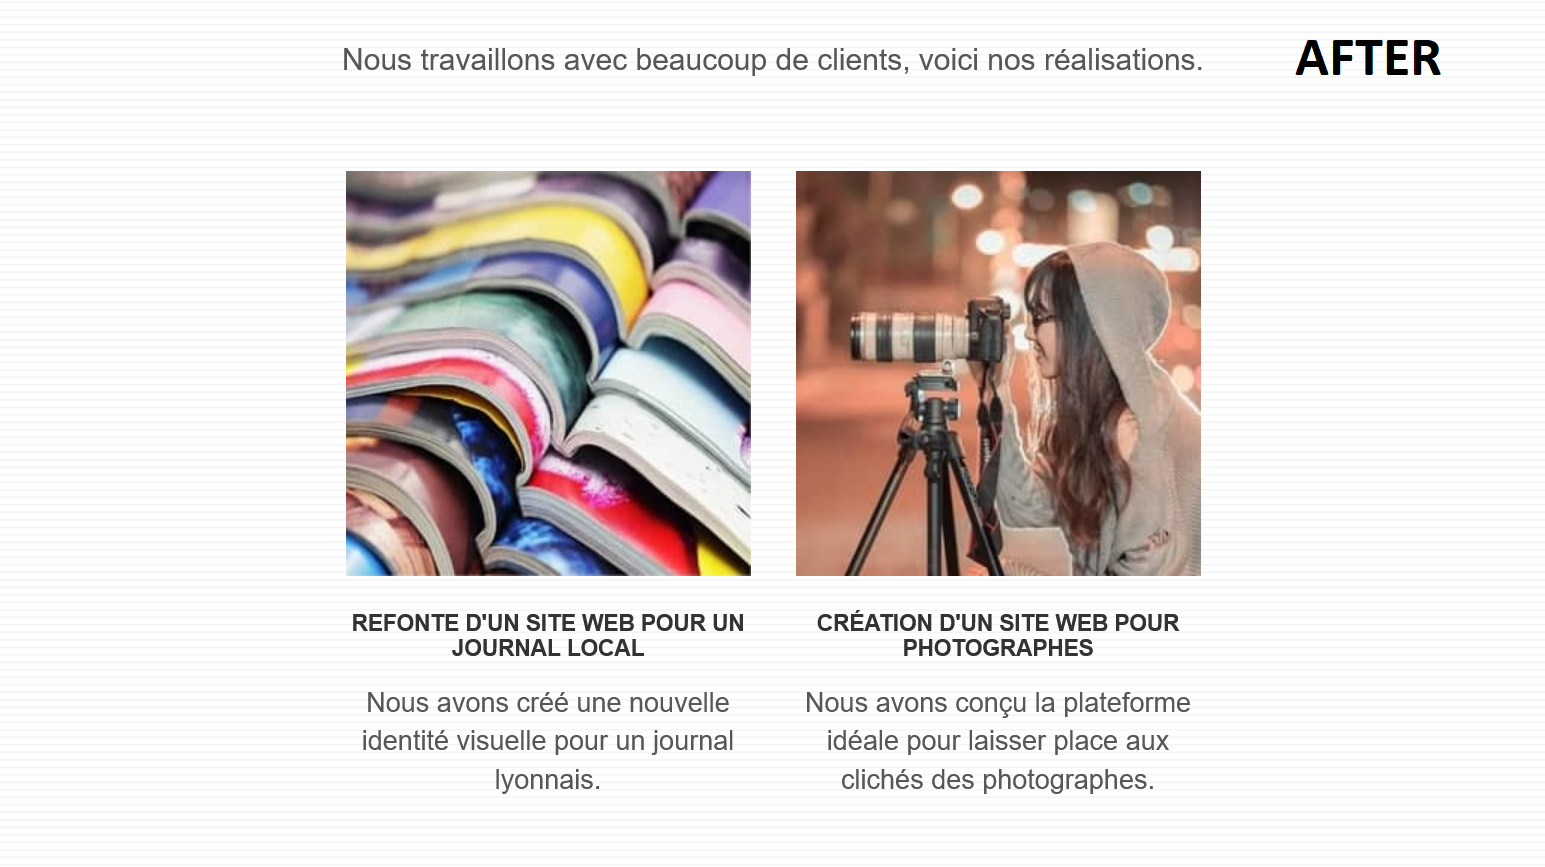
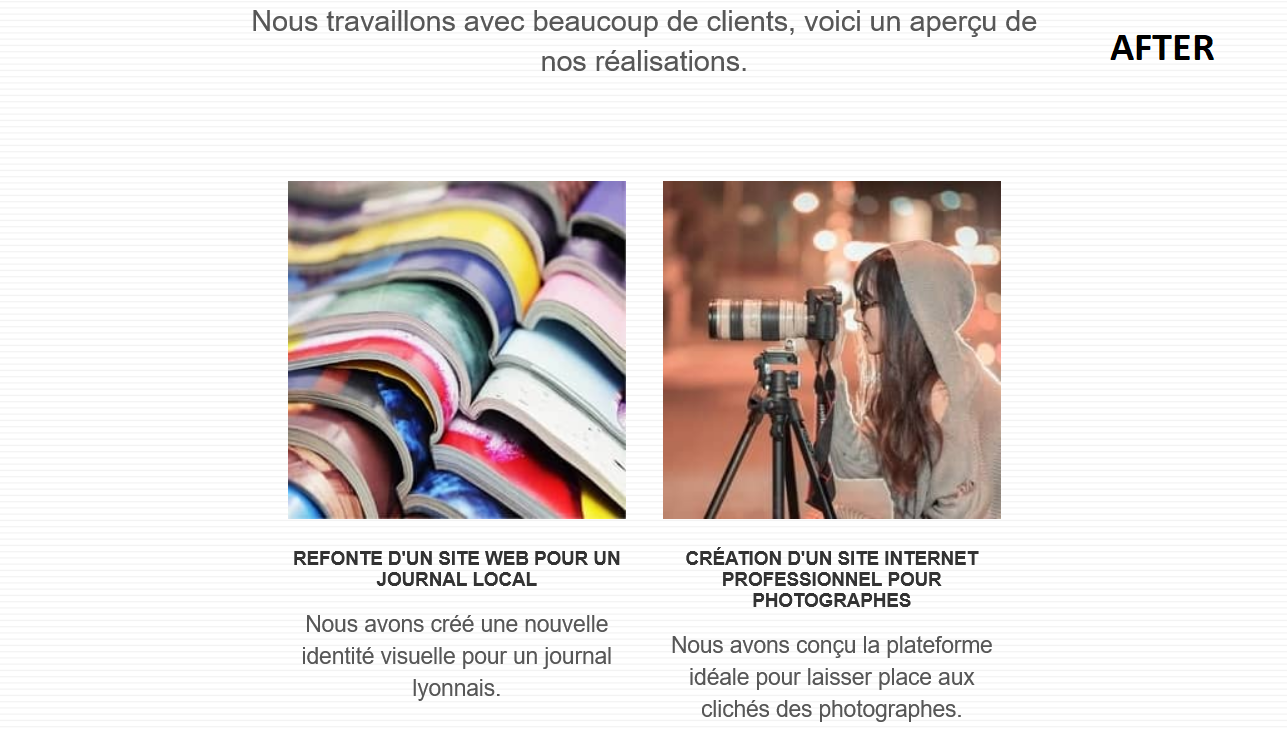
updated screenshot

Changed region(s): [[0.2176, 0.1811, 0.777, 0.9959], [0.1865, 0.0, 0.8081, 0.1207], [0.8392, 0.0302, 0.9635, 0.0905]]

diff --git a/index.html b/index.html
@@ -18,23 +18,23 @@
 }
 
 .img-size1{
-    height: 400px;
+    height: 450px;
     width: 990px;
 }
 
 .height1{
-    height: 400px;
+    height: 450px;
     width: 1000px;
 }
 
 .img-size2{
     height: 480px;
-    width: 990px;
+    width: 900px;
 }
 
 .height2{
     height: 480px;
-    width: 1000px;
+    width: 900px;
 }
 
 .img-size3{
@@ -58,11 +58,21 @@
 }
 
 .img-size5{
-  height: 400px;
+  height: 500px;
   width: 991px;
 }
 
 .height5{
+  height: 510px;
+  width: 1000px;
+}
+
+.img-size6{
+  height: 400px;
+  width: 991px;
+}
+
+.height6{
   height: 400px;
   width: 1000px;
 }
@@ -188,7 +198,8 @@ function initComparisons() {
   <a href="index.html">Page Accueil</a>
   <a href="contact.html">Page Contact</a>
     <div class="flex-center">
-      <h1>Comparaison des éléments</h1>
+      <h1>Comparaison du contraste des éléments</h1>
+      <p>Le contenu textuel de certains elements change dans la <a href="https://docstone.github.io/La-Chouette-Agence/">version finale</a></p>
       <p>Cliquez sur le slider et balayer l'image pour comparer</p>
       <h2>Navigation et Bannière</h2>
       <div class="img-comp-container height1 border">
@@ -234,23 +245,23 @@ function initComparisons() {
       
       <h2>Portfolio</h2>
       
-      <div class="img-comp-container height4 border">
+      <div class="img-comp-container height5 border">
         <div class="img-comp-img img-cont">
-      <img class="img-size4" src="./img/accueil_new_pic.png" width="1000" height="450">
+      <img class="img-size5" src="./img/accueil_new_pic.png" width="1000" height="450">
         </div>
         <div class="img-comp-img img-comp-overlay">
-      <img class="img-size4" src="./img/accueil_old_pic.png" width="1000" height="450">
+      <img class="img-size5" src="./img/accueil_old_pic.png" width="1000" height="450">
         </div>
       </div>
       
       <h2>Bannière contact et Footer</h2>
 
-      <div class="img-comp-container height5 border2">
+      <div class="img-comp-container height6 border2">
         <div class="img-comp-img img-cont">
-      <img class="img-size5" src="./img/accueil_new_footer.png" width="1000" height="450">
+      <img class="img-size6" src="./img/accueil_new_footer.png" width="1000" height="450">
         </div>
         <div class="img-comp-img img-comp-overlay">
-      <img class="img-size5" src="./img/accueil_old_footer.png" width="1000" height="450">
+      <img class="img-size6" src="./img/accueil_old_footer.png" width="1000" height="450">
         </div>
       </div>
     </div>
